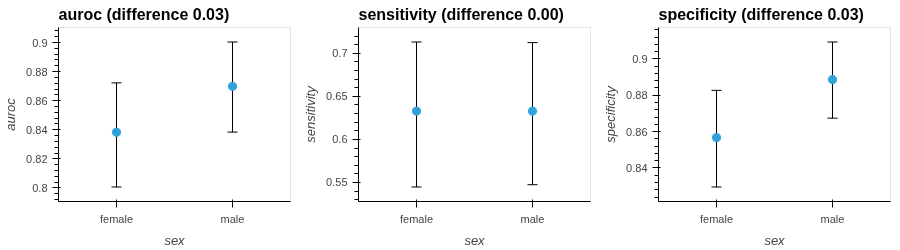
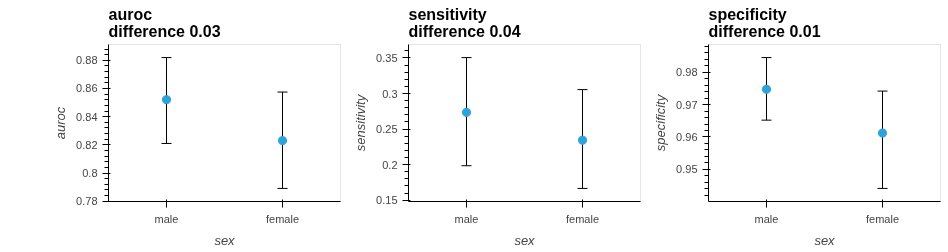
Put the subgroup difference on its own title line in subgroup_performance (#1197)
Every panel title read "<metric> (difference <value>)", which at the
default width of 300 pixels cut off the titles of longer metric names
such as calibration_slope and calibration_intercept, so the tutorial had
to widen the panels.
The difference now goes on a second line, which keeps every title within
its panel at the default width.
The docstring preview is regenerated on PhysioNet 2012, like the previous
one.

diff --git a/tests/plot/test_prediction.py b/tests/plot/test_prediction.py
@@ -59,3 +59,12 @@ def test_subgroup_performance_keeps_subgroup_order(edata):
 
     rendered = hv.render(panel, backend="bokeh")
     assert list(rendered.x_range.factors) == ["b", "a"]
+
+
+def test_subgroup_performance_titles_fit_panels(edata):
+    performance = ep.ml.evaluate(edata, ep.ml.Task("y"), split=None, groupby="group", n_bootstrap=0)
+
+    (panel,) = ep.pl.subgroup_performance(performance, metrics=["calibration_intercept"])
+
+    difference = performance.loc[("difference", "calibration_intercept"), "value"]
+    assert panel.opts.get("plot").kwargs["title"] == f"calibration_intercept\ndifference {difference:.2f}"

diff --git a/ehrapy/plot/_prediction.py b/ehrapy/plot/_prediction.py
@@ -158,6 +158,6 @@ def subgroup_performance(
         points = hv.Scatter((names, values["value"]), kdims=[str(groupby)], vdims=[metric]).opts(
             size=8, tools=["hover"]
         )
-        title = f"{metric} (difference {differences[metric]:.2f})"
+        title = f"{metric}\ndifference {differences[metric]:.2f}"
         panels.append((error_bars * points).opts(title=title, width=width, height=height))
     return hv.Layout(panels).cols(3)

diff --git a/docs/changelog.md b/docs/changelog.md
@@ -96,6 +96,7 @@ This project adheres to [Semantic Versioning](https://semver.org/spec/v2.0.0.htm
 
 ### 🐛 Bug Fixes
 
+* {func}`ep.pl.subgroup_performance <ehrapy.plot.subgroup_performance>` puts the difference between subgroups on a second line of every title, so that titles of metrics such as `calibration_intercept` are no longer cut off at the default width ([#1197](https://github.com/theislab/ehrapy/pull/1197)) @Zethson
 * {func}`ep.pp.detect_bias <ehrapy.preprocessing.detect_bias>` and {func}`ep.tl.rank_features_supervised <ehrapy.tools.rank_features_supervised>` no longer fail for variables whose name is also a column of `obs` or that have missing values, and leave out the observations without a value of the predicted variable or the sensitive feature ([#1196](https://github.com/theislab/ehrapy/pull/1196)) @Zethson
 * {func}`ep.tl.cox_ph_adjusted_curves <ehrapy.tools.cox_ph_adjusted_curves>` raises an error when `strata` is neither a covariate nor one of the `strata` of `cph`, which gave every group the same curve, and its documentation no longer asks to leave `strata` out of the model ([#1192](https://github.com/theislab/ehrapy/pull/1192)) @Zethson
 * {func}`ep.pp.qc_metrics <ehrapy.preprocessing.qc_metrics>` and {func}`ep.pp.qc_lab_measurements <ehrapy.preprocessing.qc_lab_measurements>` measure the longitudinal metrics and changes per time of 3D data in the unit of `edata.tem["time_value"]`, such as days on `ed.dt.mimic_iv_meds`, instead of in seconds of `edata.tem["interval_start_offset"]`, which they keep using when `tem` has no `time_value` ([#1202](https://github.com/theislab/ehrapy/pull/1202)) @Zethson
